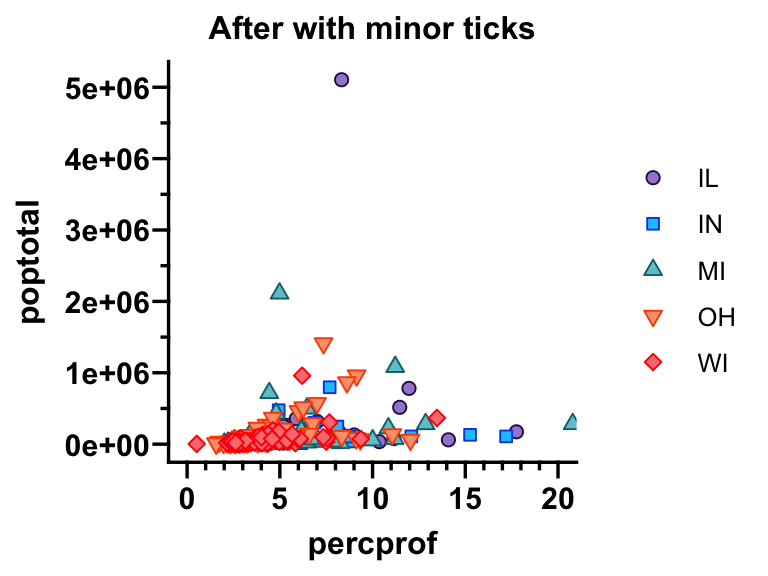
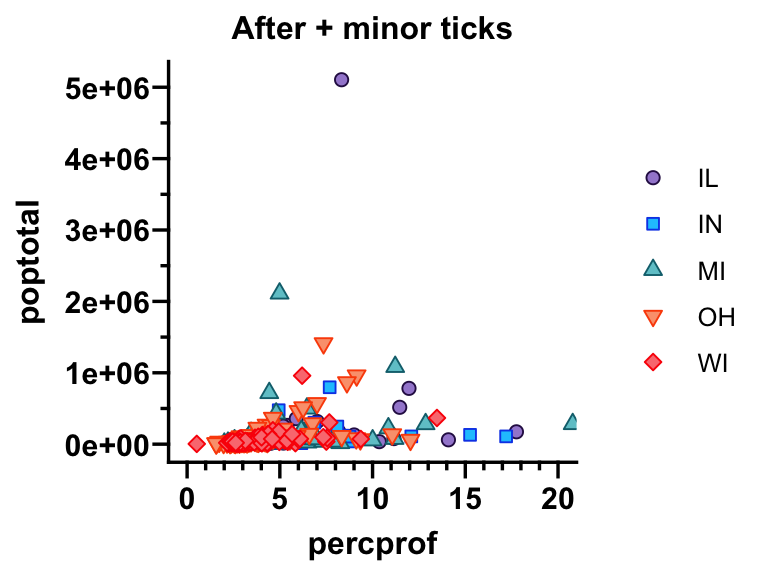
Include annotation_ticks README example

Changed region(s): [[0.25, 0.0312, 0.7188, 0.0938]]

diff --git a/README.md b/README.md
@@ -44,8 +44,27 @@ p3 <- p2 +
   scale_y_continuous(minor_breaks = seq(0, 5e6, 0.5e6), 
                      guide = "prism_minor")
 
-p3 + labs(subtitle = "After with minor ticks") + 
+p3 + labs(subtitle = "After + minor ticks") + 
   coord_cartesian(xlim = c(0, 20))
 ```
 
 <img src="man/figures/ex-ticks-1.png" width="384" />
+
+``` r
+# After with secondary axes
+# (A bit hacky but it works)
+p4 <- p2 + 
+  scale_x_continuous(minor_breaks = seq(0, 20, 1), 
+                            guide = "prism_minor", 
+                     sec.axis = sec_axis(~ ., guide = "axis")) + 
+  scale_y_continuous(minor_breaks = seq(0, 5e6, 0.5e6), 
+                     guide = "prism_minor", 
+                     sec.axis = sec_axis(~ ., guide = "axis")) + 
+  annotation_ticks(sides = "tr", type = "minor", outside = TRUE)
+
+# Need to turn off clipping for annotations outside the plot area
+p4 + labs(subtitle = "After + secondary axes") + 
+  coord_cartesian(xlim = c(0, 20), clip = "off")
+```
+
+<img src="man/figures/ex-secondary-1.png" width="480" />
